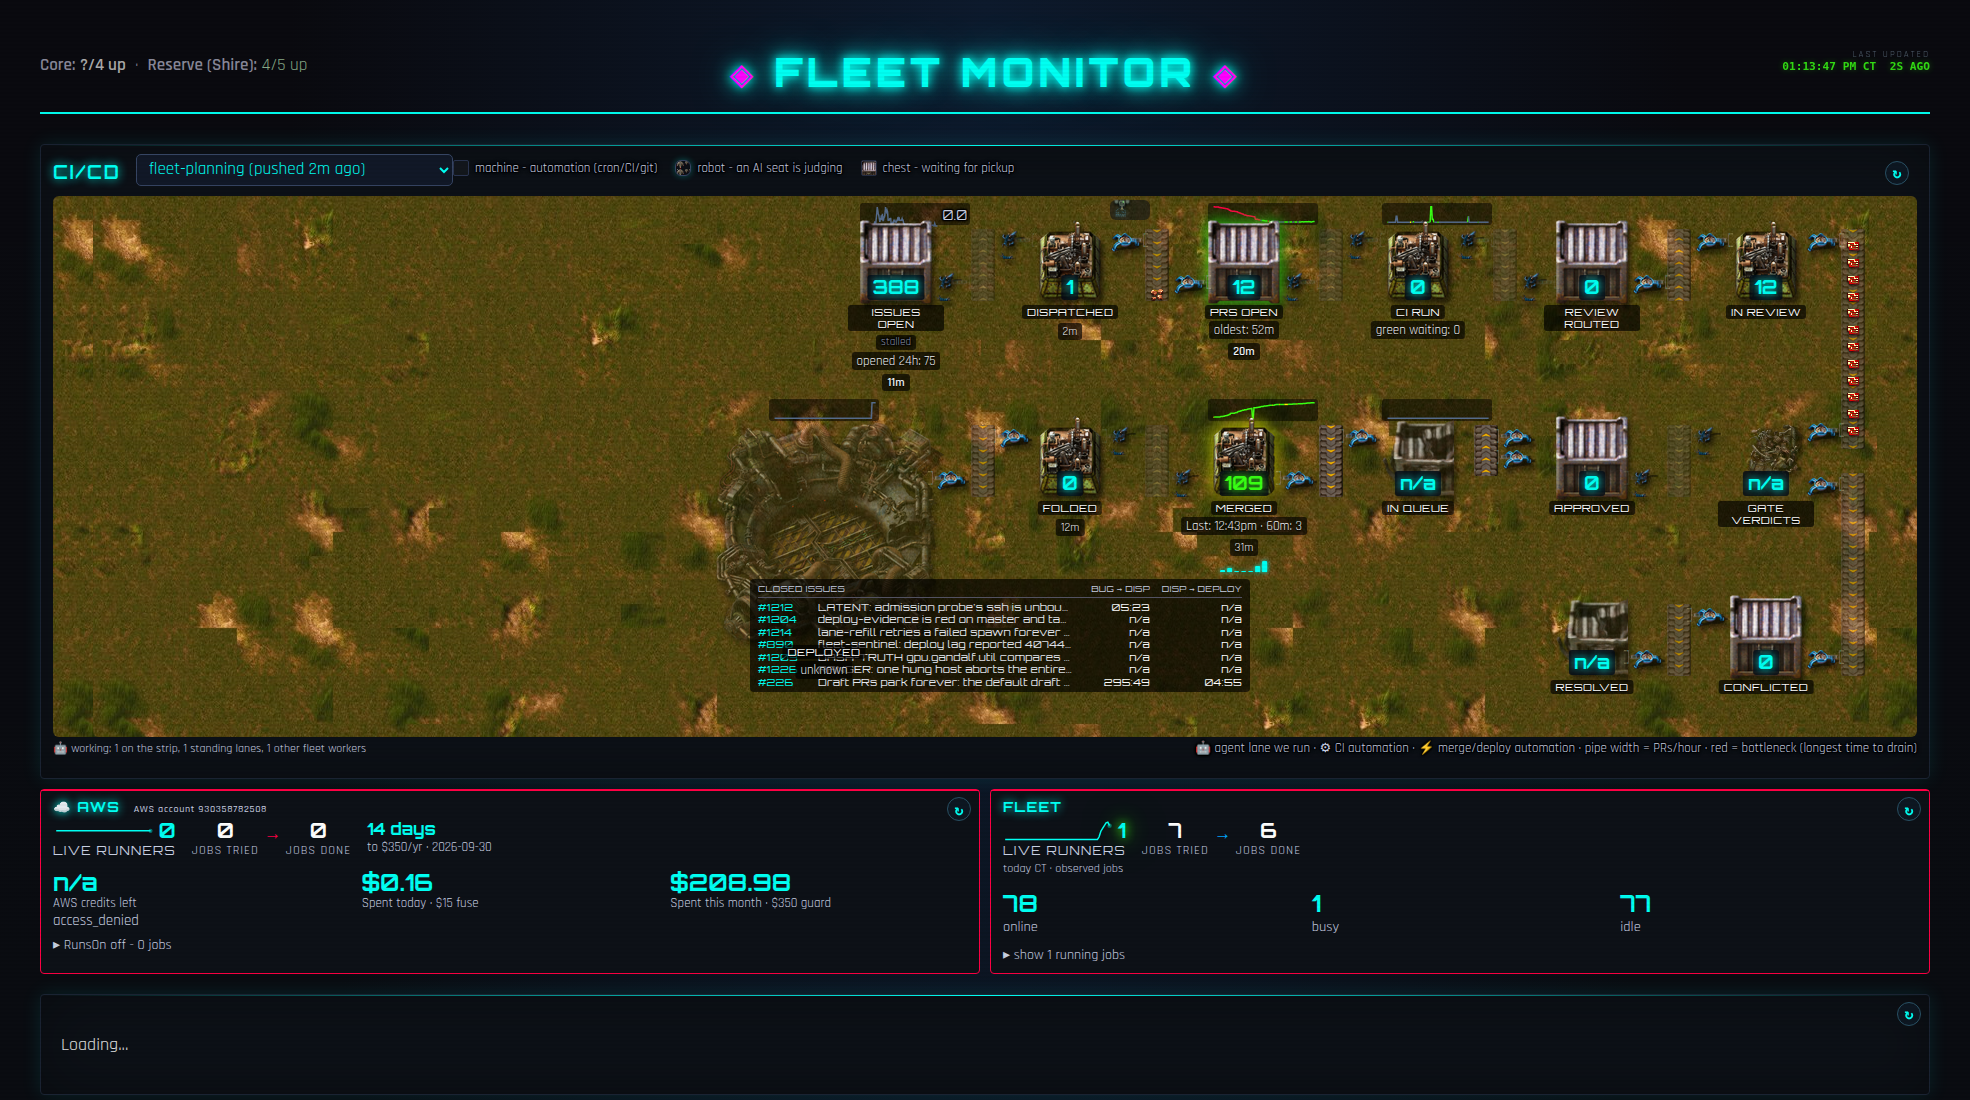
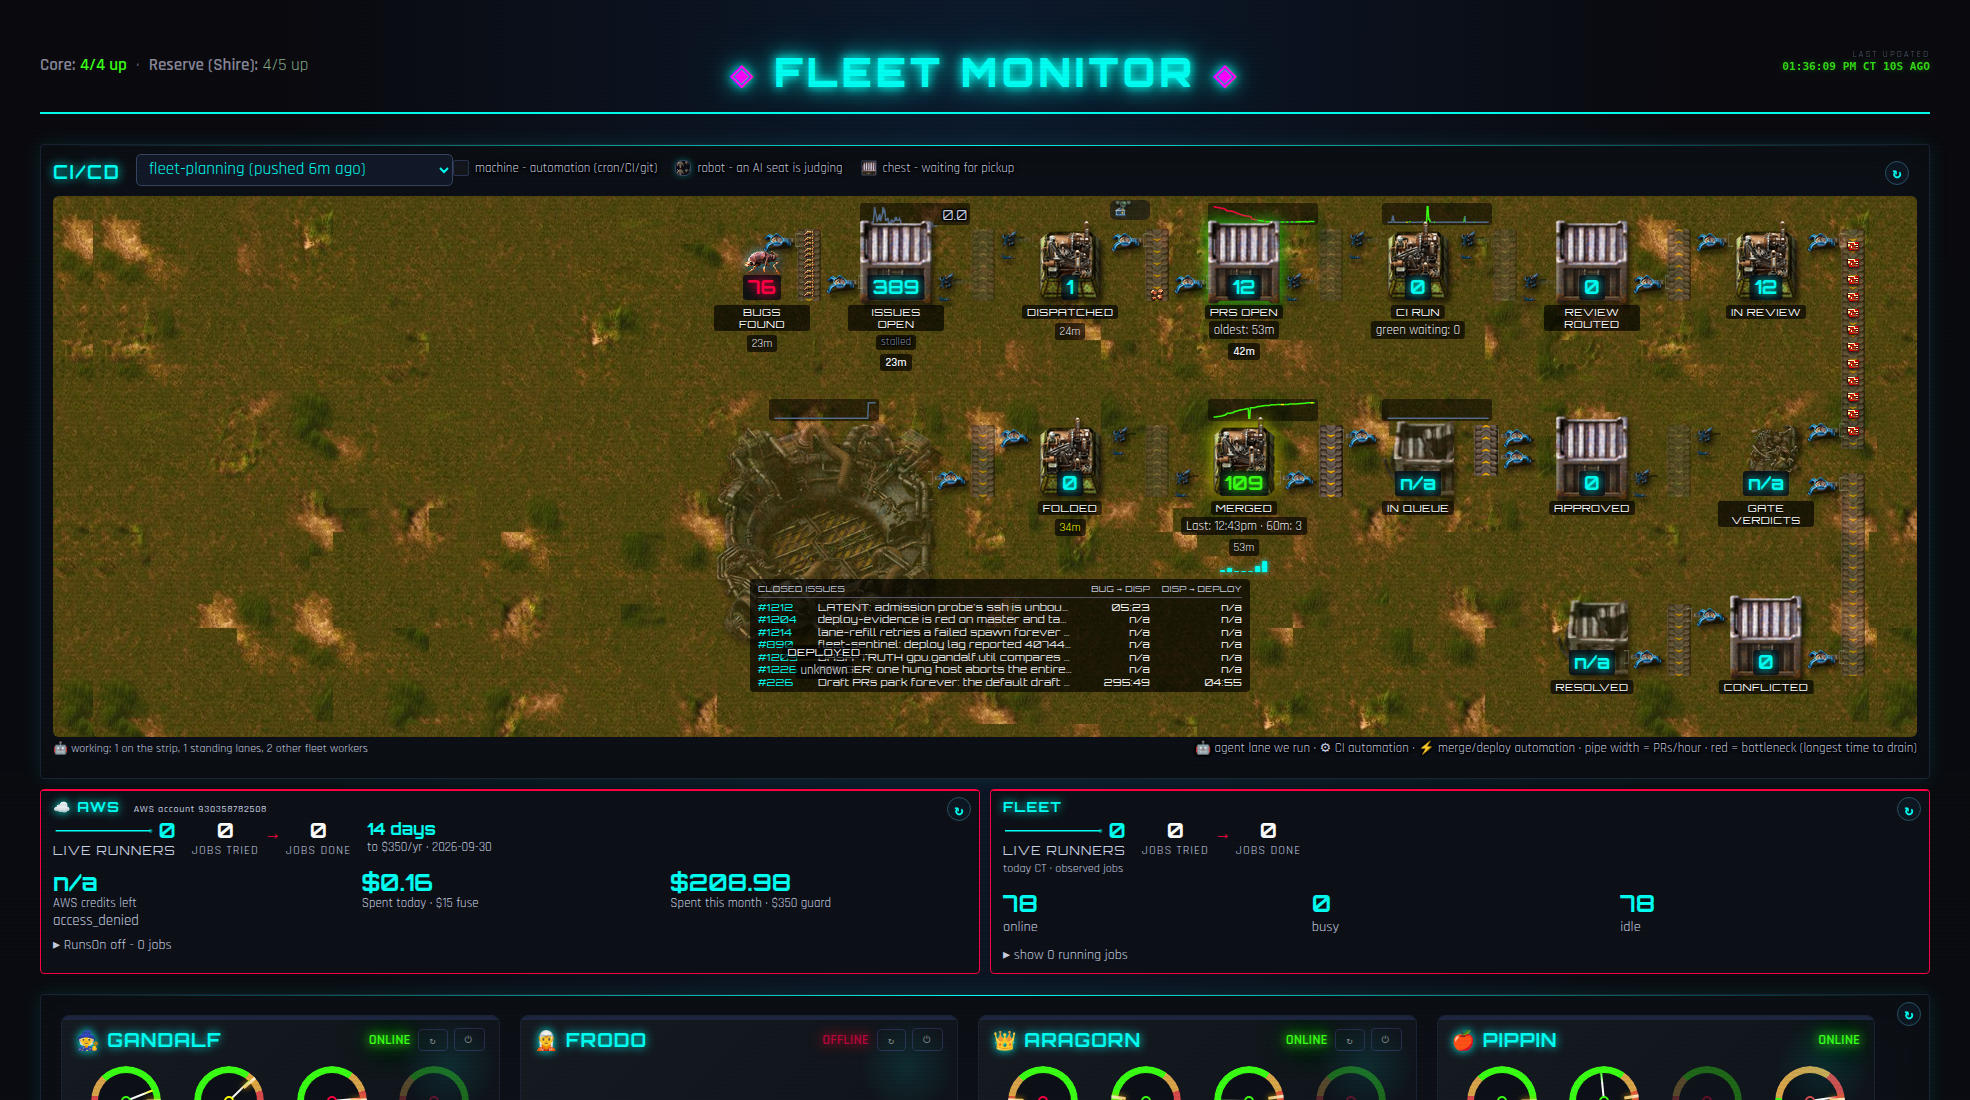
fix(fleet-monitor): keep opened-24h gauge separate

diff --git a/queue_router.py b/queue_router.py
@@ -8001,6 +8001,10 @@ font-size:0.85em;letter-spacing:0.5px;vertical-align:middle}
    regardless of how many share the row - the leftover width now collects
    at the row's own far edge instead of between every stage. */
 .ship-stage{flex:0 0 auto;padding:7px 0}
+/* Ben's 2026-09-16 correction: ISSUES OPENED 24H remains its own gauge.
+   Its two-line plate is wider than the sprite, so move only that gauge right
+   far enough to keep the plate and age chip inside the panel. */
+.ship-row-1>.ship-stage[data-square="bugs found"]{transform:translateX(40px)}
 /* 7 stages per row (Ben) at a 1440 viewport: captions may wrap to a
    second line and sub-lines may wrap too - the numerals stay full size
    (legibility beats fidelity applies to the count, not the label). */
@@ -10412,7 +10416,8 @@ function shipFlowHtml(d) {
             // LORE order 15: unknown bugs_found_24h renders 'n/a' (Round 3's
             // rule - never empty, never a bare '?') the same way gate_verdicts
             // and resolved already do.
-            shipStage(d.issues_open, 'issues open', '', '', null, HELP.issues + ' ' + HELP.bugsFound, '', null, null, null, shipIssuesRatePanel(sp.issues), 'opened 24h: ' + (d.bugs_found_24h === null || d.bugs_found_24h === undefined ? 'n/a' : d.bugs_found_24h), arrowByKey['issues-prs'] && arrowByKey['issues-prs'].drain_label, d.last_issue_created_at) + shipArrow('issues open', '🤖', arrowByKey['issues-prs'], 'PRs opened in the last hour, from GitHub search - click for live agent lanes', null, wFor('issues-prs'), isB('issues-prs'), arrowByKey['issues-prs'] && arrowByKey['issues-prs'].label, null, 'right', true) +
+            shipStage(d.bugs_found_24h === null || d.bugs_found_24h === undefined ? 'n/a' : d.bugs_found_24h, 'bugs found', bugsCls, '', null, HELP.bugsFound, '', 'bugs-found', [], null, null, null, null, d.last_issue_created_at) + shipArrow('bugs found', '⚡', null, 'Issues created in the last 24h', null, null, false, String(d.bugs_found_24h ?? '?'), null, 'right', true) +
+            shipStage(d.issues_open, 'issues open', '', '', null, HELP.issues, '', null, null, null, shipIssuesRatePanel(sp.issues), null, arrowByKey['issues-prs'] && arrowByKey['issues-prs'].drain_label, d.last_issue_created_at) + shipArrow('issues open', '🤖', arrowByKey['issues-prs'], 'PRs opened in the last hour, from GitHub search - click for live agent lanes', null, wFor('issues-prs'), isB('issues-prs'), arrowByKey['issues-prs'] && arrowByKey['issues-prs'].label, null, 'right', true) +
             shipStage(d.dispatched ?? null, 'dispatched', '', '', null, HELP.dispatched, '', 'dispatched', [], null, null, null, null, d.dispatched_last_at) + shipArrow('dispatched', '🤖', null, 'Live dispatched lanes', null, null, false, String(d.dispatched ?? '?'), null, 'right', true) +
             shipStage(d.prs_open, 'prs open', '', prsOld.sub, null, HELP.prs + shipOldestWords('prs open', 'age of the oldest open, non-draft pull request'), prsOld.cls, null, null, null, shipHistorySpark(sp.prs, 'prs'), null, null, d.prs_open_last_at) + shipArrow('prs open', '⚙', arrowByKey['prs-ci'], 'Distinct PRs with a CI run started this hour, from the GitHub workflow-runs list', d.ci_queued, wFor('prs-ci'), isB('prs-ci'), null, null, 'right', true) +
             shipStage(ciNum, 'ci q/run', ciCls, ciOld.sub, null, HELP.ciqr + shipOldestWords('ci q/run', 'how long the oldest queued run in the last 48 h has waited to start (since it was re-queued, if it was re-run)') + ' Green waiting: ' + greenWaitingText + ' PRs approved and green but not yet enqueued.' + greenWaitWords, ciOld.cls, null, null, 'ci run', shipHistorySpark(sp.ci, 'ci'), 'green waiting: ' + greenWaitingText + (greenSub ? ' · ' + greenSub : '') + (greenWaitSub ? ' · ' + greenWaitSub : ''), null, d.ci_last_run_started_at) + shipArrow('ci q/run', '⚙', arrowByKey['ci-green'], 'Distinct PRs with a green Pre-Merge Gate run this hour (workflow 255384592)', d.ci_running, wFor('ci-green'), isB('ci-green'), null, null, 'right', true) +
